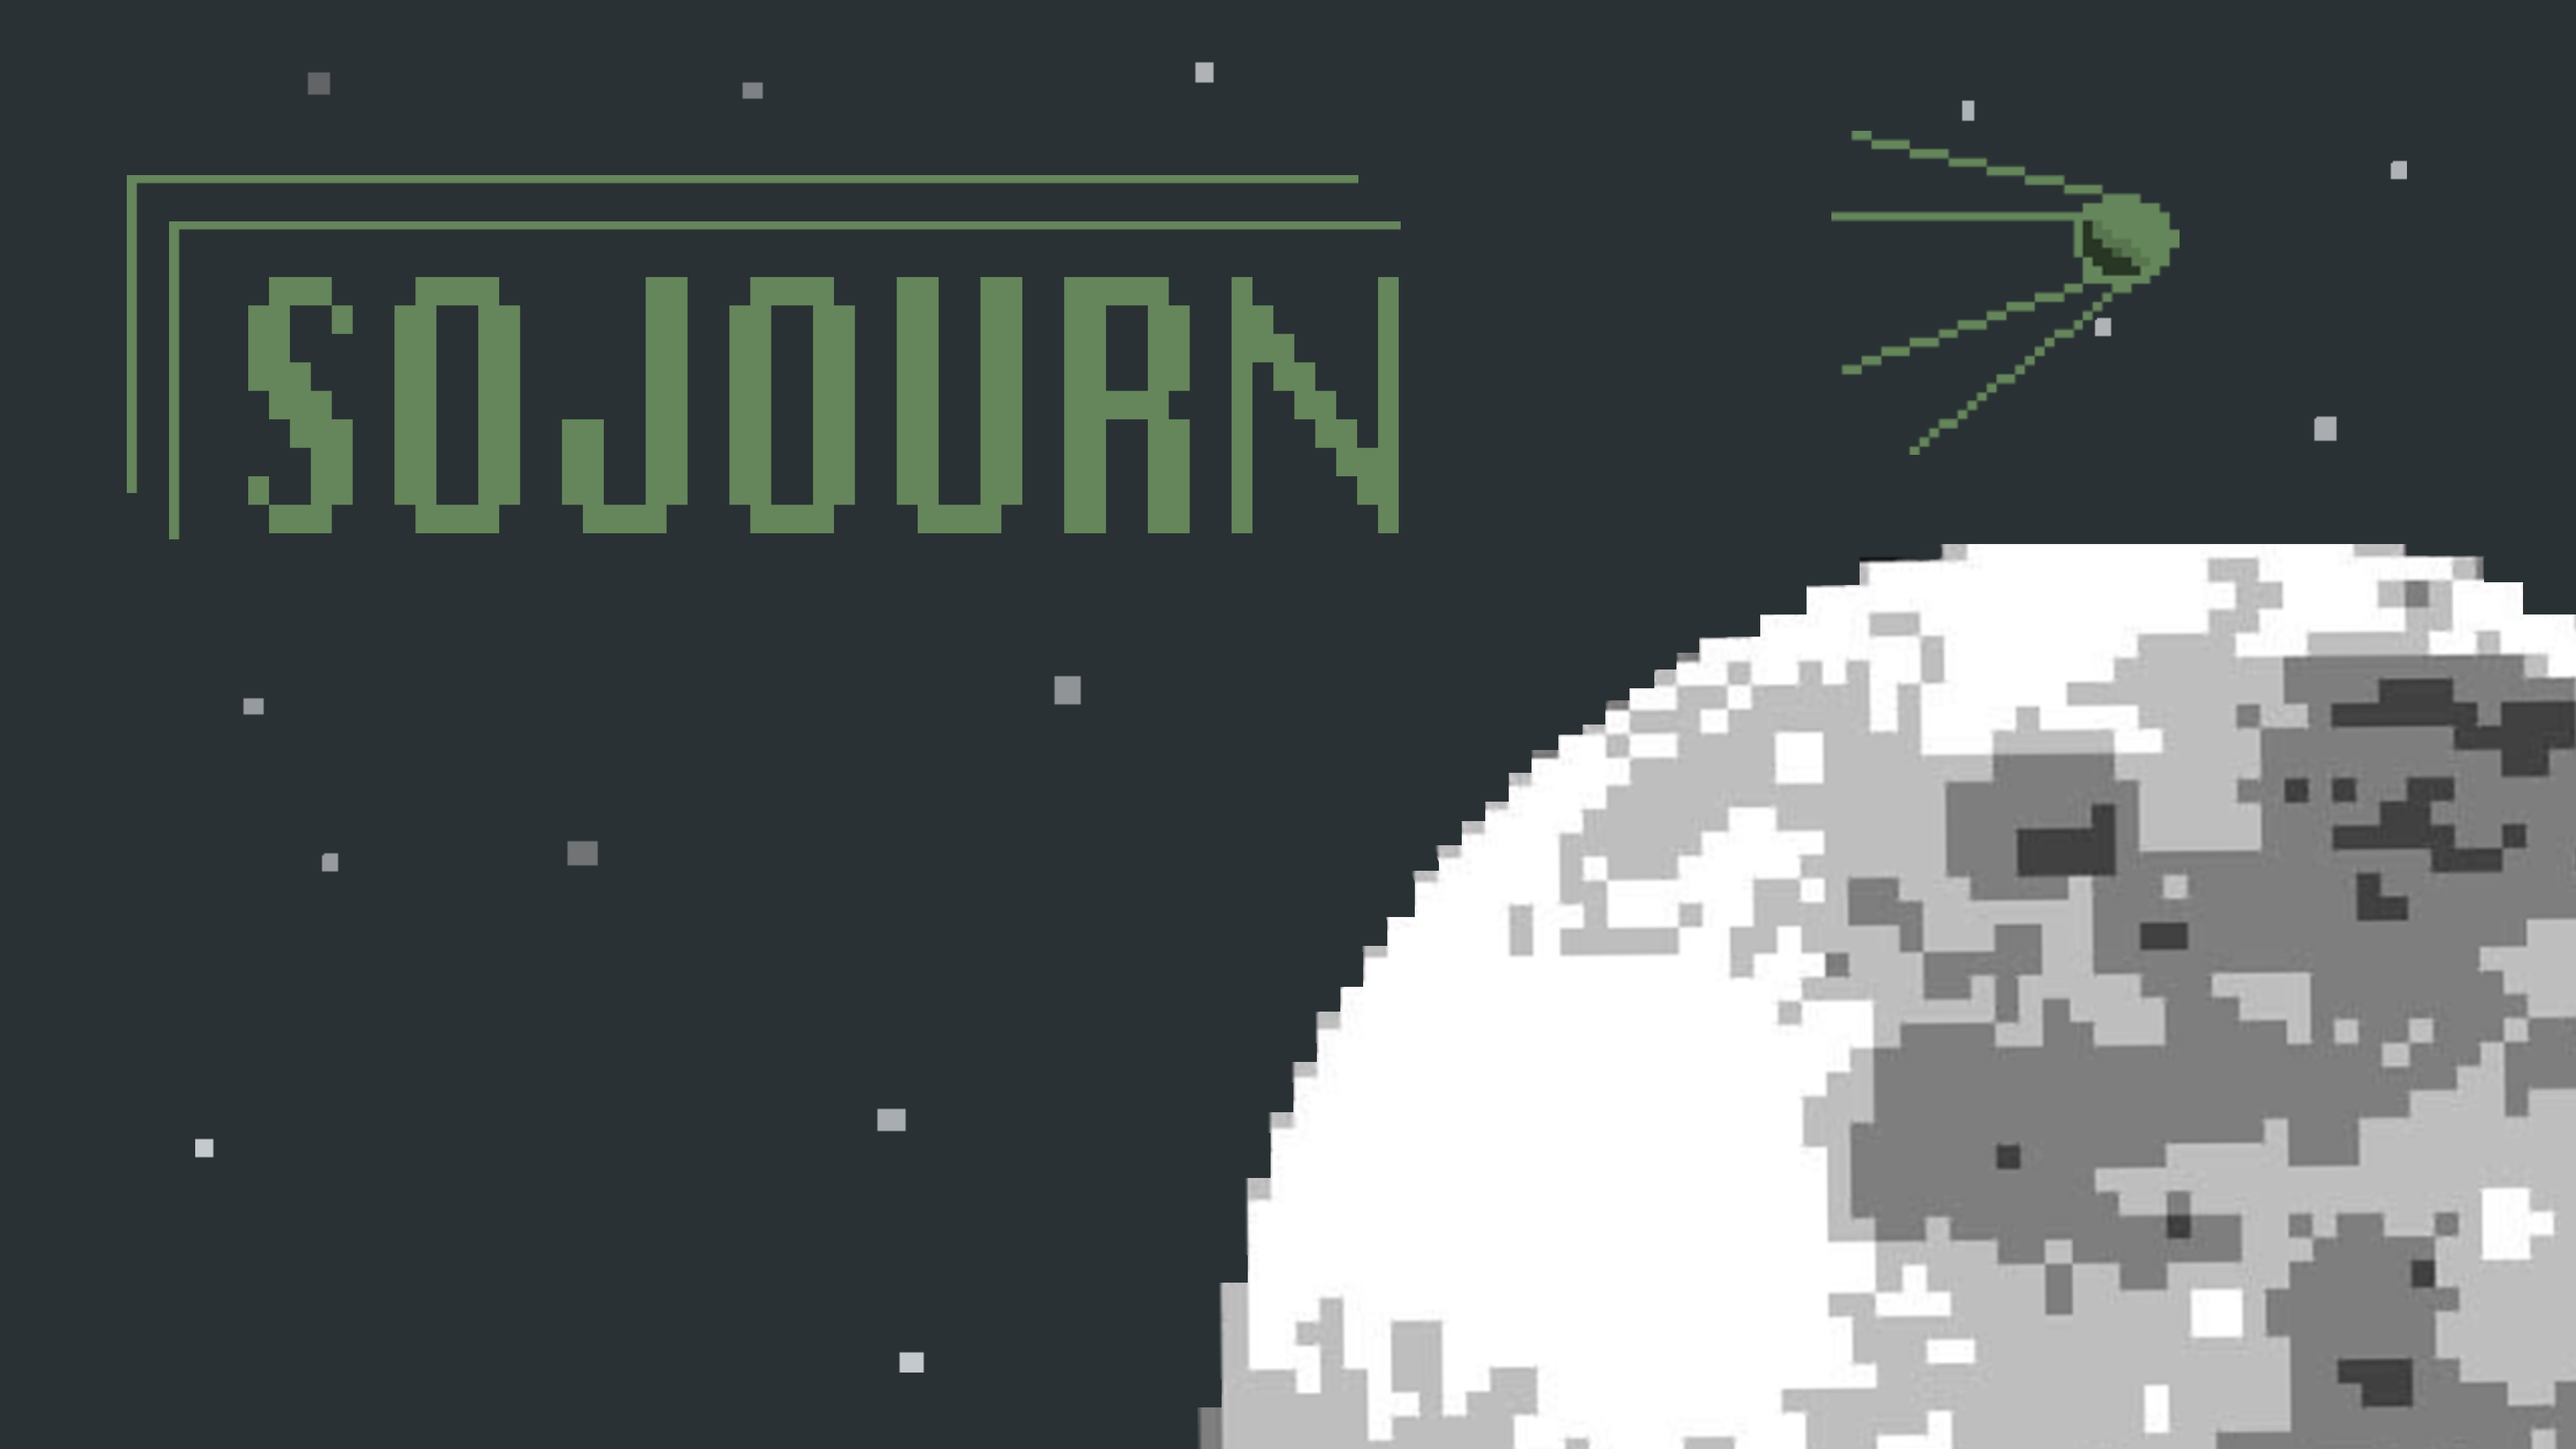
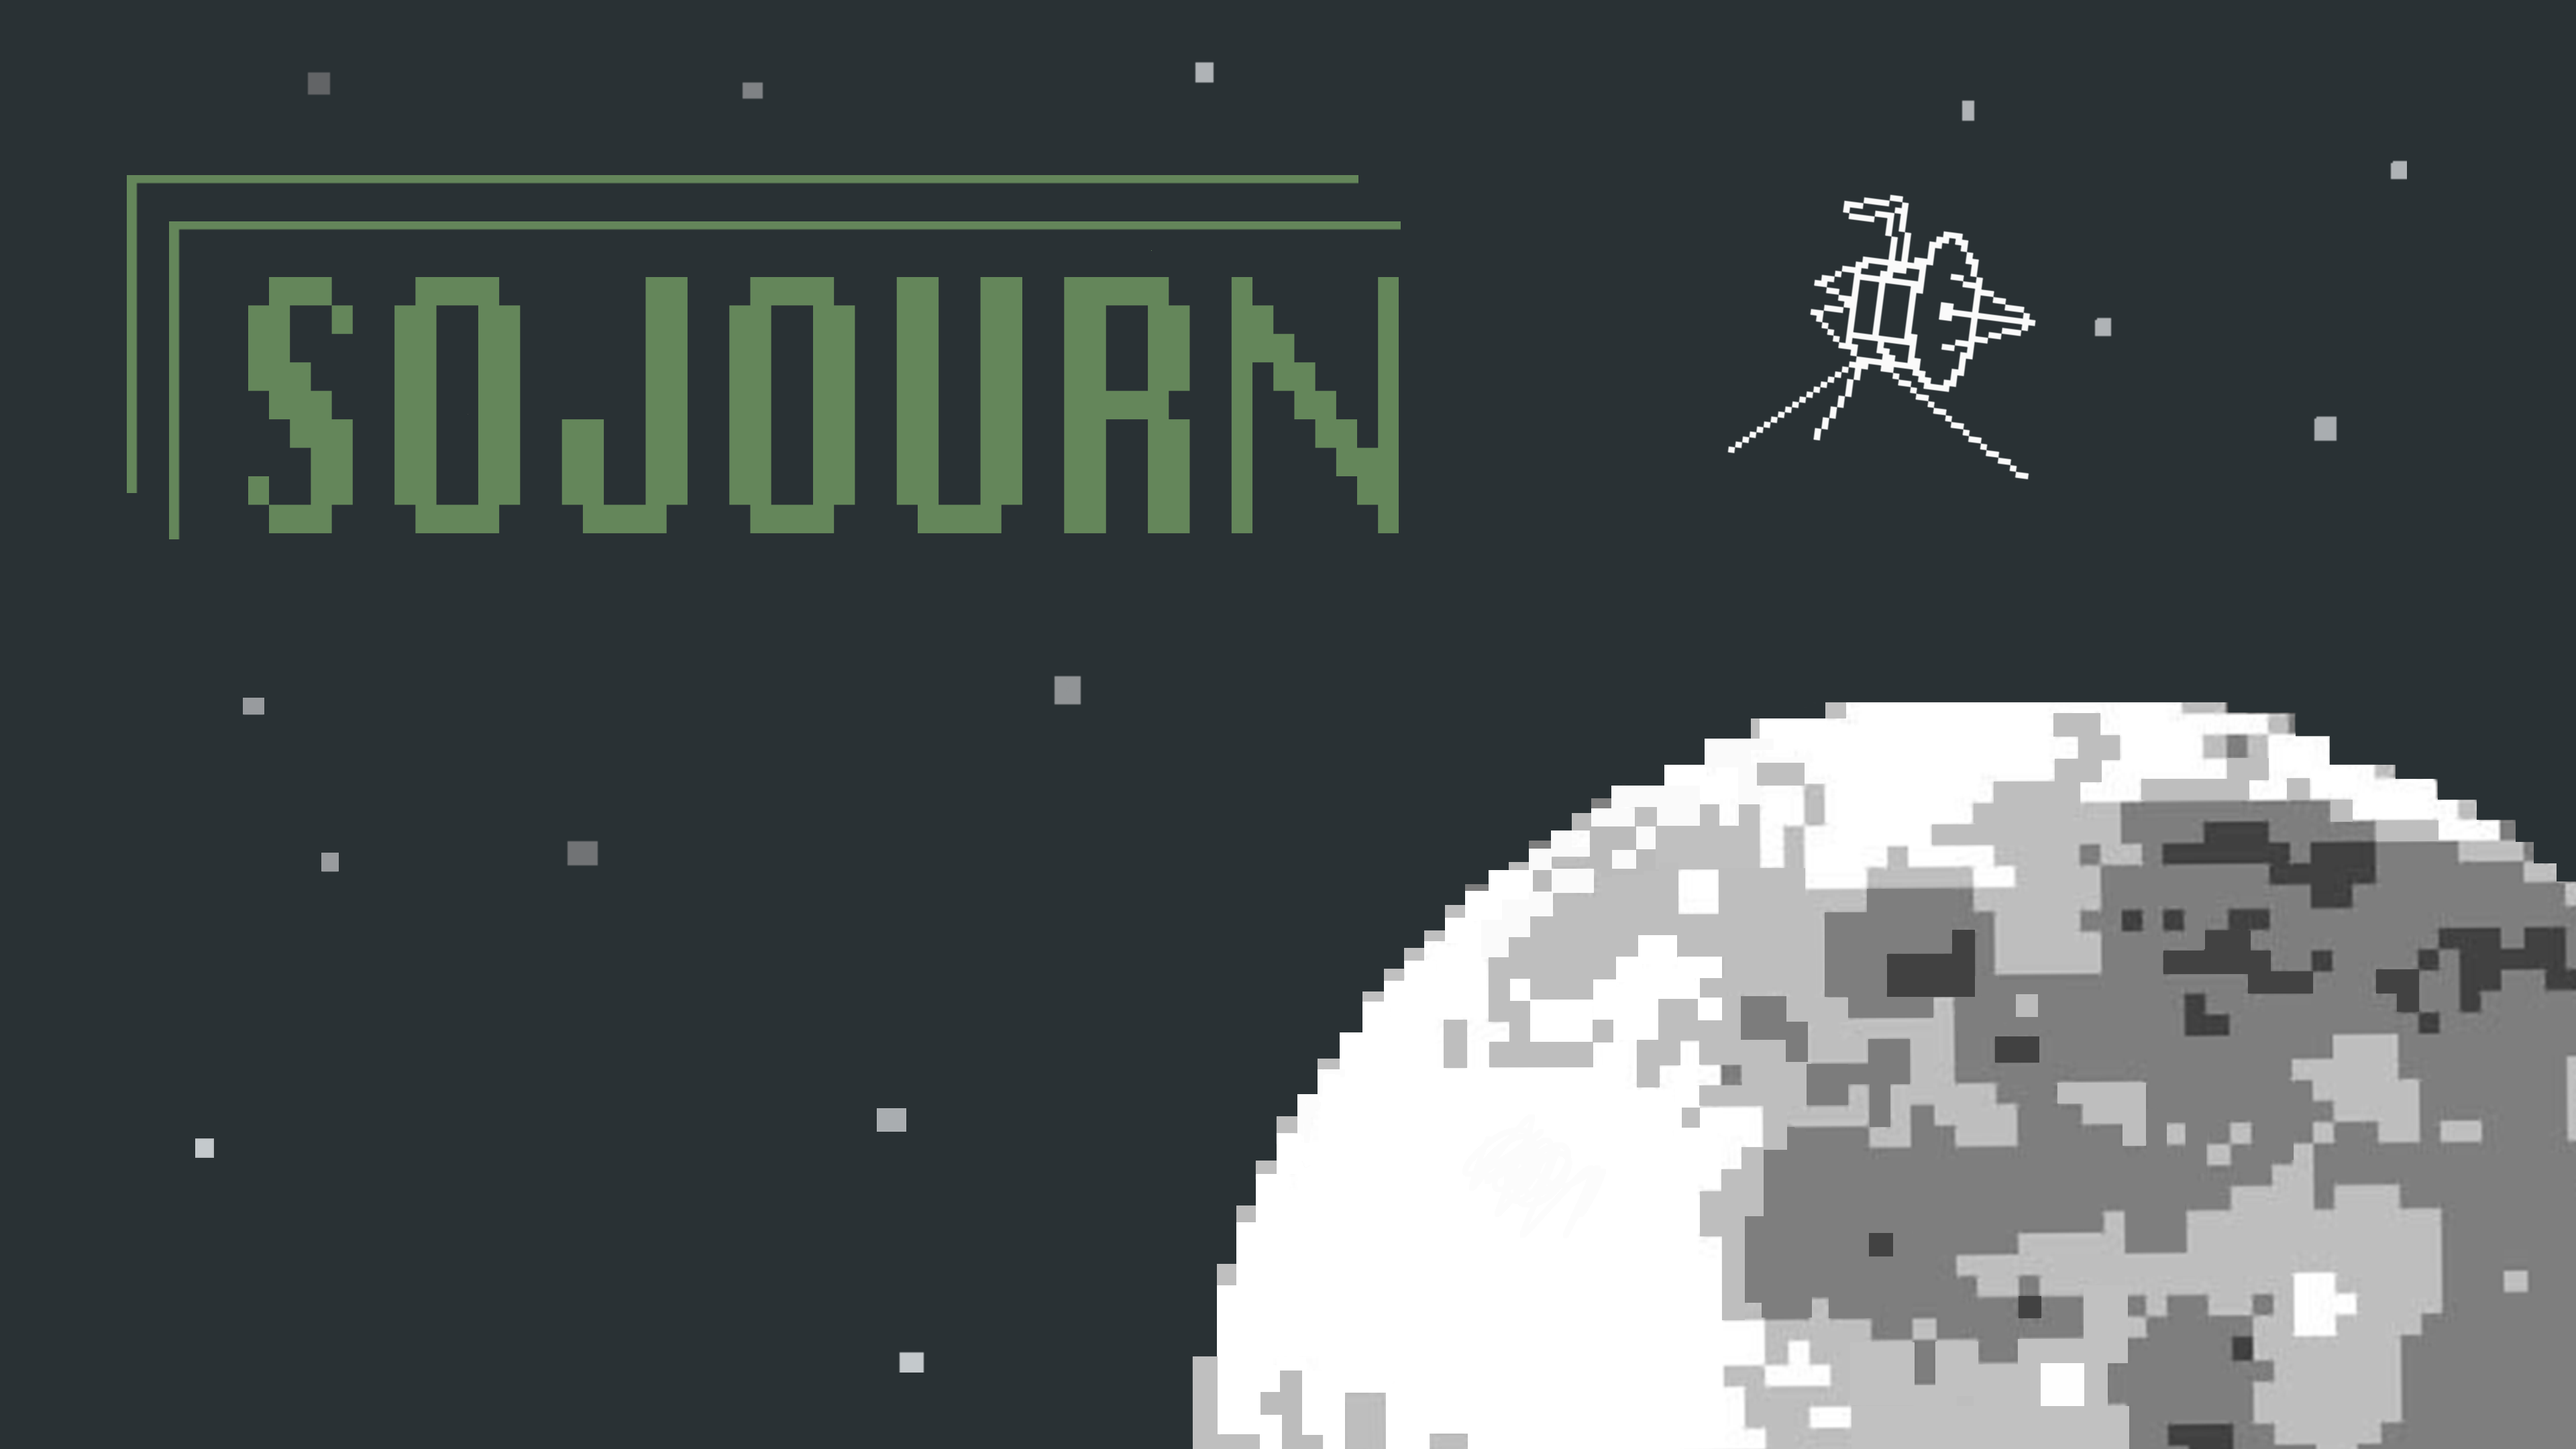
added end screen

diff --git a/frontend/src/routes/end-screen/+page.svelte b/frontend/src/routes/end-screen/+page.svelte
@@ -1,7 +1,147 @@
+<script lang="ts">
+	import { onMount } from "svelte";
+	import { goto } from "$app/navigation";
+	import { resolve } from "$app/paths";
+	import endScreen from "$lib/assets/end_screen.webp";
+	import Box from "$lib/components/Box/Box.svelte";
+	import Button from "$lib/components/Button/Button.svelte";
+	import Screen from "$lib/components/Screen/Screen.svelte";
+	import TextWriter from "$lib/components/TextWriter/TextWriter.svelte";
+	import Led from "$lib/components/ground-system/Led.svelte";
+	import { gameState } from "$lib/components/ground-system/GameState.svelte";
+
+	// README.md.
+	const TEAM = [
+		"Macsen Casaus",
+		"Susan Hamilton",
+		"Isaac Lagoy",
+		"Owen Shadburne",
+		"David Zhang",
+	];
+
+	const LED_MS = 300;
+
+	const scenario = gameState.scenario;
+	const objectives = scenario?.objectives ?? [];
+
+	const label = "mt-[1.3em] text-[0.85em] text-white/60";
+	const lines: { text: string; class?: string }[] = [
+		{
+			text: "> MISSION COMPLETE",
+			class: "text-[2.5em] leading-tight font-bold",
+		},
+		...(scenario
+			? [
+					{
+						text: `> ${scenario.name.toUpperCase()}`,
+						class: "text-[1.5em]",
+					},
+				]
+			: []),
+		{ text: "> THANK YOU FOR PLAYING", class: "mt-[1.3em]" },
+		...(scenario
+			? [
+					{ text: "> LEVEL AUTHOR", class: label },
+					{ text: `>   ${scenario.author.toUpperCase()}` },
+				]
+			: []),
+		{ text: "> TEAM", class: label },
+		...TEAM.map((name) => ({ text: `>   ${name.toUpperCase()}` })),
+		{ text: "> SPONSOR", class: label },
+		{ text: ">   LOCKHEED MARTIN" },
+		{ text: "> END OF TRANSMISSION", class: label },
+	];
+
+	// Completed Objectives
+	let lit = $state(0);
+	let led: Led;
+
+	onMount(() => {
+		if (matchMedia("(prefers-reduced-motion: reduce)").matches) {
+			lit = objectives.length;
+			return;
+		}
+
+		const leds = setInterval(() => {
+			lit++;
+			if (lit >= objectives.length) clearInterval(leds);
+		}, LED_MS);
+
+		return () => {
+			clearInterval(leds);
+		};
+	});
+</script>
+
 <svelte:head>
 	<title>End Screen</title>
 </svelte:head>
 
-<main class="end-screen">
-	<h1>the end</h1>
+<main class="h-screen overflow-hidden">
+	<Box class="flex h-full flex-col gap-2 p-2">
+		<div class="flex items-center justify-between px-1">
+			<span class="text-xl font-bold">Downlink</span>
+			<Led
+				bind:this={led}
+				fade={600}
+			/>
+		</div>
+
+		<Screen
+			bezelClass="min-h-0 flex-1"
+			class="grid grid-cols-[1.15fr_1fr] items-center gap-[3vw] p-[3vw]"
+		>
+			<div class="flex flex-col items-center gap-6">
+				<div class="relative aspect-[167/82] w-full">
+					<div class="absolute inset-0 overflow-hidden">
+						<img
+							src={endScreen}
+							alt="The probe, spinning"
+							class="absolute top-[-63.4%] left-[-44.3%] w-[191.6%] max-w-none mix-blend-lighten [image-rendering:pixelated]"
+						/>
+					</div>
+					{#each ["-top-3 -left-3 border-t-2 border-l-2", "-top-3 -right-3 border-t-2 border-r-2", "-bottom-3 -left-3 border-b-2 border-l-2", "-right-3 -bottom-3 border-r-2 border-b-2"] as corner (corner)}
+						<span class="absolute size-8 border-white/60 {corner}"
+						></span>
+					{/each}
+				</div>
+				<p
+					class="glow text-[length:min(1vw,1.8vh)] tracking-[0.5em] text-white/70"
+				>
+					SOJOURN
+				</p>
+			</div>
+
+			<TextWriter
+				{lines}
+				onLineComplete={() => led.blink()}
+			/>
+		</Screen>
+
+		<div class="flex min-h-[8vh] items-center justify-between gap-4 px-2">
+			<div class="flex flex-wrap gap-x-6 gap-y-1">
+				{#each objectives as objective, i (objective.id)}
+					<span class="flex items-center gap-2 font-semibold">
+						<Led color={i < lit ? "green" : "off"} />
+						{objective.name}
+					</span>
+				{/each}
+			</div>
+			<div class="flex h-[8vh] w-[30vw] shrink-0 gap-2">
+				<Button
+					wellClass="w-1/2"
+					alert
+					onclick={() => goto(resolve("/"))}
+				>
+					Main Menu
+				</Button>
+				<Button
+					wellClass="w-1/2"
+					onclick={() => goto(resolve("/level-select"))}
+				>
+					Level Select
+				</Button>
+			</div>
+		</div>
+	</Box>
 </main>

diff --git a/frontend/src/lib/components/TextWriter/TextWriter.svelte b/frontend/src/lib/components/TextWriter/TextWriter.svelte
@@ -1,0 +1,77 @@
+<script lang="ts">
+	import { onMount } from "svelte";
+
+	type Line = {
+		text: string;
+		class?: string;
+	};
+
+	let {
+		lines,
+		onLineComplete = () => {},
+	}: {
+		lines: Line[];
+		onLineComplete?: () => void;
+	} = $props();
+
+	const START_MS = 900;
+	const CHAR_MS = 25;
+	const LINE_MS = 300;
+
+	let line = $state(0);
+	let typed = $state(0);
+	const cursorAt = $derived(Math.min(line, lines.length - 1));
+
+	function shown(i: number) {
+		return i === line ? lines[i].text.slice(0, typed) : lines[i].text;
+	}
+
+	onMount(() => {
+		if (matchMedia("(prefers-reduced-motion: reduce)").matches) {
+			line = lines.length;
+			return;
+		}
+
+		let timer: ReturnType<typeof setTimeout>;
+		const type = () => {
+			if (typed < lines[line].text.length) {
+				typed++;
+				timer = setTimeout(type, CHAR_MS);
+				return;
+			}
+			onLineComplete();
+			line++;
+			typed = 0;
+			if (line < lines.length) timer = setTimeout(type, LINE_MS);
+		};
+		timer = setTimeout(type, START_MS);
+
+		return () => clearTimeout(timer);
+	});
+</script>
+
+<div
+	class="glow text-[length:min(1.2vw,2.1vh)] leading-relaxed whitespace-pre-wrap"
+>
+	{#each lines as l, i (i)}
+		<p class={[l.class, i > line && "invisible"]}>
+			{shown(i)}{#if i === cursorAt}<span class="cursor">█</span>{/if}
+		</p>
+	{/each}
+</div>
+
+<style>
+	.cursor {
+		animation: blink 1s steps(1) infinite;
+	}
+
+	@keyframes blink {
+		50% {
+			opacity: 0;
+		}
+	}
+
+	.glow {
+		text-shadow: 0 0 0.3em rgb(255 255 255 / 0.45);
+	}
+</style>
